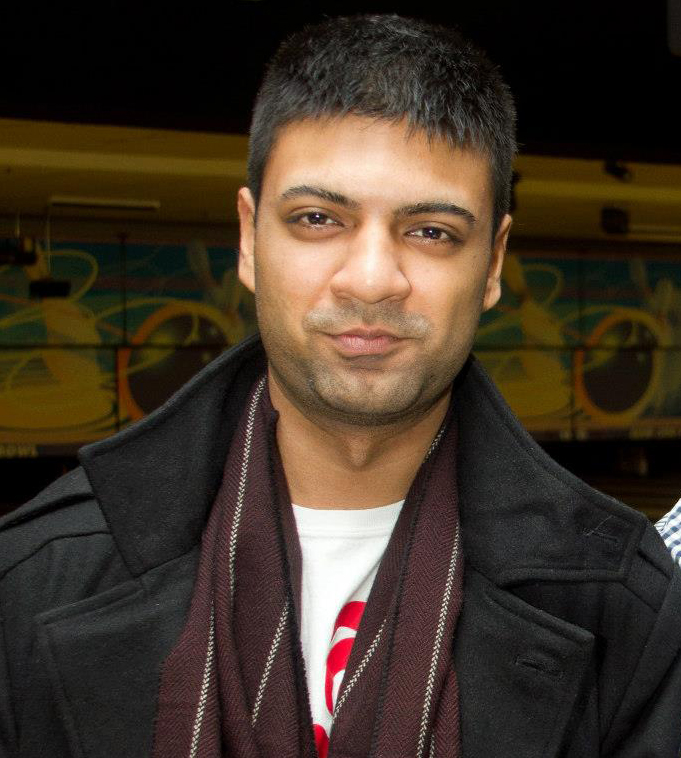
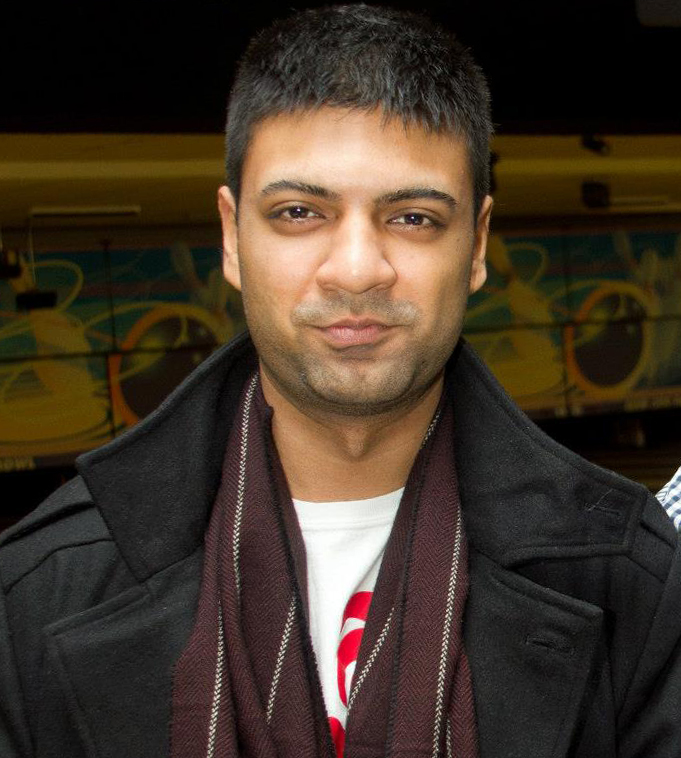
Changed text, added copyright footer
Straightened the photo

diff --git a/index.html b/index.html
@@ -73,7 +73,7 @@
         <section id="contact">
             <h2 class="item-title">
                 <span class="icon-envelope"></span>
-                <span class="title">Website Feedback</span>
+                <span class="title">Contact Me</span>
             </h2>
 
             <div class="item-content clearfix">
@@ -89,27 +89,14 @@
                             <td><input type="text" id="email"></input></td>
                           </tr>
                           <tr>
-                              <td colspan="2">Rate this website</td>
-                          </tr>
-                          <tr>
-                              <td colspan="2">
-                                <select>
-                                  <option value="excellent">Excellent</option>
-                                  <option value="very-good">Very Good</option>
-                                  <option value="good">Good</option>
-                                  <option value="poor">Poor</option>
-                                </select>
-                              </td>
-                          </tr>
-                          <tr>
-                            <td colspan="2">Comments</td>
+                            <td colspan="2">Message</td>
                           </tr>
                           <tr>
                             <td colspan="2"><textarea></textarea></td>
                           </tr>
                           <tr>
                             <td colspan="2">
-                                <input class="button" type="submit" value="Send Feedback">
+                                <input class="button" type="submit" value="Send Message">
                             </td>
                           </tr>
                         </table>
@@ -126,8 +113,8 @@
         </section>
 
         <!-- Footer stuff -->
-        <div id="footer">
-
-        </div>
+        <footer>
+            Copyright(c) 2014 Afzal Najam
+        </footer>
     </div>
 </body>

diff --git a/css/styles.css b/css/styles.css
@@ -15,7 +15,7 @@ body {
   margin: auto;
   position: relative;
   font-family:"Open Sans";
-  padding-bottom:120px;
+  padding-bottom:20px;
   font-size: 13px;
   line-height: 21px
 }
@@ -470,4 +470,11 @@ td > textarea {
 .resume-content ul li ul{
   list-style: circle;
   margin-left: 12px;
+}
+
+footer {
+  padding-top: 12px;
+  font-family:"Open Sans";
+  text-align: center;
+  color: #434B52;
 }

diff --git a/resume.html b/resume.html
@@ -119,8 +119,8 @@
         </section>
 
         <!-- Footer stuff -->
-        <div id="footer">
-
-        </div>
+        <footer>
+            Copyright(c) 2014 Afzal Najam
+        </footer>
     </div>
 </body>
